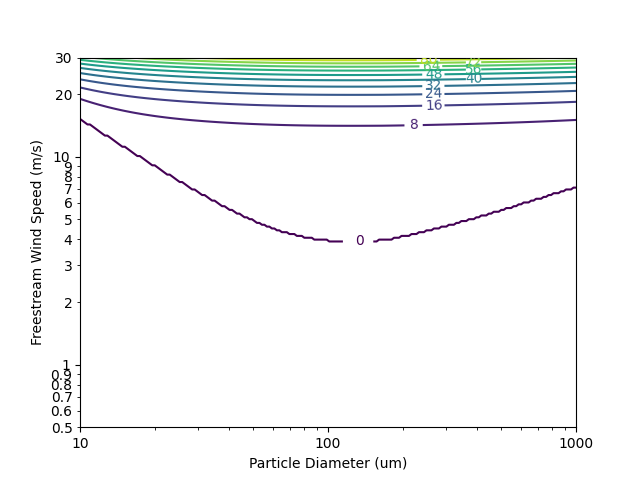
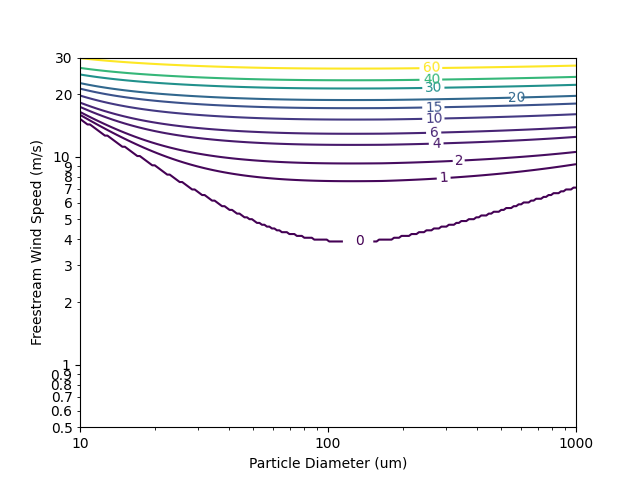
added more plots for understanding density distribution and flux

Changed region(s): [[0.125, 0.125, 0.9062, 0.375], [0.4688, 0.375, 0.625, 0.4062]]

diff --git a/saltation.py b/saltation.py
@@ -20,6 +20,7 @@ rho_p_over_rho = 240000
 rho_p = 2650 / 1000                     # g / cm^3
 nu = 11.19                              # cm^2 / s
 source_area_density = 1000               # g / cm
+l = 5
 
 ########################### Helper Functions ###########################
 
@@ -59,12 +60,12 @@ def plot_contour(d, u):
     #plt.show()
     fig.savefig("diameter_v_speed.png")
 
-def plot_flux(d, u, fname, sname):
+def plot_flux(d, u, fname, sname, levels):
     D, U = np.meshgrid(d, u, indexing="ij")
     fluxes = np.load(fname)
     fig, ax = plt.subplots()
     # D in um, U in m/s
-    c = ax.contour(D * 1E4, U / 1E2, fluxes, levels=10)
+    c = ax.contour(D * 1E4, U / 1E2, fluxes, levels=levels)
     ax.clabel(c, c.levels)
     ax.set_xscale('log')
     ax.set_yscale('log')
@@ -104,7 +105,6 @@ def generate_flux_tensor(particle_diameters, u_freestream):
 
 # takes an array of N particle diameter sizes and a total supply and returns an array of N-1 densities for N-1 diameter buckets
 def surface_dust_supply(diameters: np.ndarray) -> np.ndarray:
-    l = 5
     max_d = np.max(diameters)
     min_d = np.min(diameters)
     if l == 4:
@@ -119,12 +119,18 @@ def surface_dust_supply(diameters: np.ndarray) -> np.ndarray:
     return supply_per_D[:-1]
 
 def plot_bucket_depletion(diameters, bucket_times):
+    return plot_logx(diameters[:-1] * 1E4, bucket_times, "Particle Diameter (um)", "Time to Deplete (s)")
+
+def plot_density_distribution(diameters, densities):
+    return plot_logx(diameters[:-1] * 1E4, densities, "Particle Diameter (um)", "Bucket Density (mass per unit space)")
+
+def plot_logx(x, y, xlabel, ylabel):
     fig, ax = plt.subplots()
-    ax.plot(diameters[:-1], bucket_times)
+    ax.plot(x, y)
     ax.set_xscale('log')
     ax.xaxis.set_major_formatter(ticker.FuncFormatter(lambda y, _: '{:g}'.format(y)))
-    ax.set_xlabel("Particle Diameter (um)")
-    ax.set_ylabel("Time to Deplete (s)")
+    ax.set_xlabel(xlabel)
+    ax.set_ylabel(ylabel)
     return fig
 
 ################################ Script ################################
@@ -139,14 +145,18 @@ u_freestream = np.geomspace(0.5, 30, num_pts) * 1E2                 # cm/s
 flux_tensor = generate_flux_tensor(particle_diameters, u_freestream)
 np.save("flux_tensor.npy", flux_tensor)
 
-plot_flux(particle_diameters, u_freestream, "flux_tensor_old.npy", "fluxes_per_L.png")
+plot_flux(particle_diameters, u_freestream, "flux_tensor_old.npy", "fluxes_per_L.png", [0, 1, 2, 4, 6, 10, 15, 20, 30, 40, 60])
 
-plot_flux(particle_diameters, u_freestream, "flux_tensor.npy", "fluxes")
+plot_flux(particle_diameters, u_freestream, "flux_tensor.npy", "fluxes", 10)
 
 interp = RegularGridInterpolator((particle_diameters, u_freestream), flux_tensor, bounds_error=False)
 
 u_test = np.array([3, 10, 20]) * 1E2
 bucket_densities = surface_dust_supply(particle_diameters)
+
+fig = plot_density_distribution(particle_diameters, bucket_densities)
+fname = "diameter_v_bucket_densities_l_%s.png" %(l)
+fig.savefig(fname)
 
 for u in u_test:
     sample_pts = np.array([particle_diameters[:-1], np.full_like(bucket_densities, u)]).T
